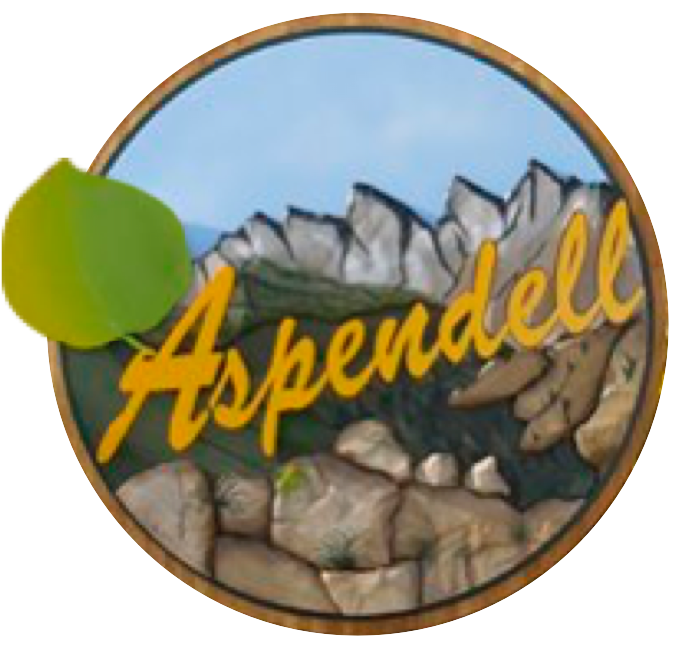
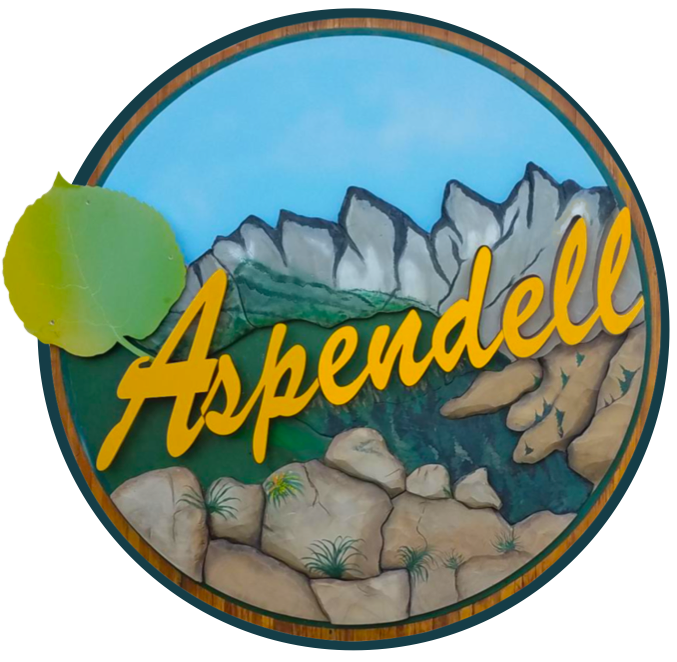
update news section w/aspendell sign

diff --git a/public/index.html b/public/index.html
@@ -52,6 +52,14 @@
         <div class="collapse navbar-collapse" id="bs-example-navbar-collapse-1">
             <ul class="nav navbar-nav navbar-right">
 
+
+                 
+                    <li>
+                        <a class="page-scroll" href="#news">News</a>
+                    </li>
+                
+
+
                 
                     <li>
                         <a class="page-scroll" href="#events">Events</a>
@@ -126,7 +134,8 @@
                 <h1 style="font-family: Alegreya SC">Aspendell</h1>
             
             
-                <p>A mountain community surrounded by Inyo National Forest near Bishop, CA, 93514</p>
+                <p style = "font-family: Muli;">A mountain community near Bishop, California 93514</p>
+                
             
         </div>
     </div>
@@ -136,19 +145,41 @@
         
 
         
-            <section style="background-color: #da7945; color:white">
+            <section style="background-color: #e88455; color:white" id="news">
   <div class="container">
     <div class="row">
       <div class="col-lg-8 col-lg-offset-2 text-center">
-<p style="text-center; size=10; color:#fff">To join the community mailing list, send a message to: <b><i>aspendellpoa@gmail.com</i></b></p>
+<p style="text-center; size=10; color:#fff">To join the community mailing list, send an email to: <b><i>aspendellpoa@gmail.com</i></b></p>
 </div>
 </div>
 </div>
 </section>
 
+<section style="background-color: #ebeaf3; color: #3a3758"> 
+  <div class="container">
+    <div class="row">
+      <div class="col-lg-8 col-lg-offset-2 text-center">
+        <br>
+            <img src="./img/aspendell_sign.png" alt="tips" style="width:160px;height:160px;border:0px; margin: 5px">
+<h3><b>COMMUNITY NEWS</b></h3>
+      <hr>
+      </div>
 
+<div class="col-lg-8 col-lg-offset-2 text-left">
+  <ul>
+    <li><p><b>Date:</b> headline/link for new well news?<p></li>
+    <li><p><b>Date:</b> headline/link for fire clearance news?<p></li>
+  </ul>
+</div>
 
-<section style="background-color: #fff; color:#3a3758" id="events">
+</div>
+</div>
+</section>
+
+        
+
+        
+            <section style="background-color: #fff; color:#3a3758" id="events">
     <div class="container">
         <div class="row">
             <div class="col-lg-8 col-lg-offset-2 text-center"><br>
@@ -377,7 +408,7 @@
         
 
         
-            <section style="background-color: #373644; color: white" id="contact">
+            <section style="background-color: #ebeaf3; color: #3a3758" id="contact">
     <div class="container">
         <div class="row">
 
@@ -419,7 +450,7 @@
         
 
         
-            <section style="background-color: #ebeaf3; color: #3a3758" id="gallery_header">
+            <section style="background-color: white; color: #3a3758" id="gallery_header">
     <div class="container">
         <div class="row">
             <div class="col-lg-8 col-lg-offset-2 text-center">

diff --git a/themes/hugo-creative-theme/layouts/partials/news.html b/themes/hugo-creative-theme/layouts/partials/news.html
@@ -1,0 +1,30 @@
+<section style="background-color: #e88455; color:white" id="news">
+  <div class="container">
+    <div class="row">
+      <div class="col-lg-8 col-lg-offset-2 text-center">
+<p style="text-center; size=10; color:#fff">To join the community mailing list, send an email to: <b><i>aspendellpoa@gmail.com</i></b></p>
+</div>
+</div>
+</div>
+</section>
+
+<section style="background-color: #ebeaf3; color: #3a3758"> <!--*fa9639*/-->
+  <div class="container">
+    <div class="row">
+      <div class="col-lg-8 col-lg-offset-2 text-center">
+        <br>
+            <img src="./img/aspendell_sign.png" alt="tips" style="width:160px;height:160px;border:0px; margin: 5px">
+<h3><b>COMMUNITY NEWS</b></h3>
+      <hr>
+      </div>
+
+<div class="col-lg-8 col-lg-offset-2 text-left">
+  <ul>
+    <li><p><b>Date:</b> headline/link for new well news?<p></li>
+    <li><p><b>Date:</b> headline/link for fire clearance news?<p></li>
+  </ul>
+</div>
+
+</div>
+</div>
+</section>

diff --git a/themes/hugo-creative-theme/layouts/partials/nav.html b/themes/hugo-creative-theme/layouts/partials/nav.html
@@ -17,6 +17,14 @@
         <div class="collapse navbar-collapse" id="bs-example-navbar-collapse-1">
             <ul class="nav navbar-nav navbar-right">
 
+
+                 {{ if and .Site.Params.news .Site.Params.navigation.links.news }}
+                    <li>
+                        <a class="page-scroll" href="#news">{{ .Site.Params.navigation.links.news }}</a>
+                    </li>
+                {{ end }}
+
+
                 {{ if and .Site.Params.events .Site.Params.navigation.links.events }}
                     <li>
                         <a class="page-scroll" href="#events">{{ .Site.Params.navigation.links.events }}</a>

diff --git a/themes/hugo-creative-theme/layouts/partials/hero.html b/themes/hugo-creative-theme/layouts/partials/hero.html
@@ -11,9 +11,10 @@
             <!--{{ with .Site.Params.hero.slogan }}-->
                 <h1 style="font-family: Alegreya SC">Aspendell</h1>
             <!--{{ end }}-->
-            {{ with .Site.Params.hero.subtitle }}
-                <p>{{ . | markdownify }}</p>
-            {{ end }}
+            <!--{{ with .Site.Params.hero.subtitle }}-->
+                <p style = "font-family: Muli;">A mountain community near Bishop, California 93514</p>
+                <!--<p>{{ . | markdownify }}</p>-->
+            <!--{{ end }}-->
         </div>
     </div>
 </header>

diff --git a/themes/hugo-creative-theme/layouts/partials/events.html b/themes/hugo-creative-theme/layouts/partials/events.html
@@ -1,15 +1,3 @@
-<section style="background-color: #da7945; color:white">
-  <div class="container">
-    <div class="row">
-      <div class="col-lg-8 col-lg-offset-2 text-center">
-<p style="text-center; size=10; color:#fff">To join the community mailing list, send a message to: <b><i>aspendellpoa@gmail.com</i></b></p>
-</div>
-</div>
-</div>
-</section>
-
-
-
 <section style="background-color: #fff; color:#3a3758" id="events">
     <div class="container">
         <div class="row">

diff --git a/themes/hugo-creative-theme/layouts/partials/gallery_header.html b/themes/hugo-creative-theme/layouts/partials/gallery_header.html
@@ -1,4 +1,4 @@
-<section style="background-color: #ebeaf3; color: #3a3758" id="gallery_header">
+<section style="background-color: white; color: #3a3758" id="gallery_header">
     <div class="container">
         <div class="row">
             <div class="col-lg-8 col-lg-offset-2 text-center">

diff --git a/themes/hugo-creative-theme/layouts/index.html b/themes/hugo-creative-theme/layouts/index.html
@@ -12,6 +12,10 @@
             {{ partial "hero.html" . }}
         {{ end }}
 
+        {{ if .Site.Params.news }}
+            {{ partial "news.html" . }}
+        {{ end }}
+
         {{ if .Site.Params.events }}
             {{ partial "events.html" . }}
         {{ end }}

diff --git a/themes/hugo-creative-theme/layouts/partials/contact.html b/themes/hugo-creative-theme/layouts/partials/contact.html
@@ -1,4 +1,4 @@
-<section style="background-color: #373644; color: white" id="contact">
+<section style="background-color: #ebeaf3; color: #3a3758" id="contact">
     <div class="container">
         <div class="row">
 
